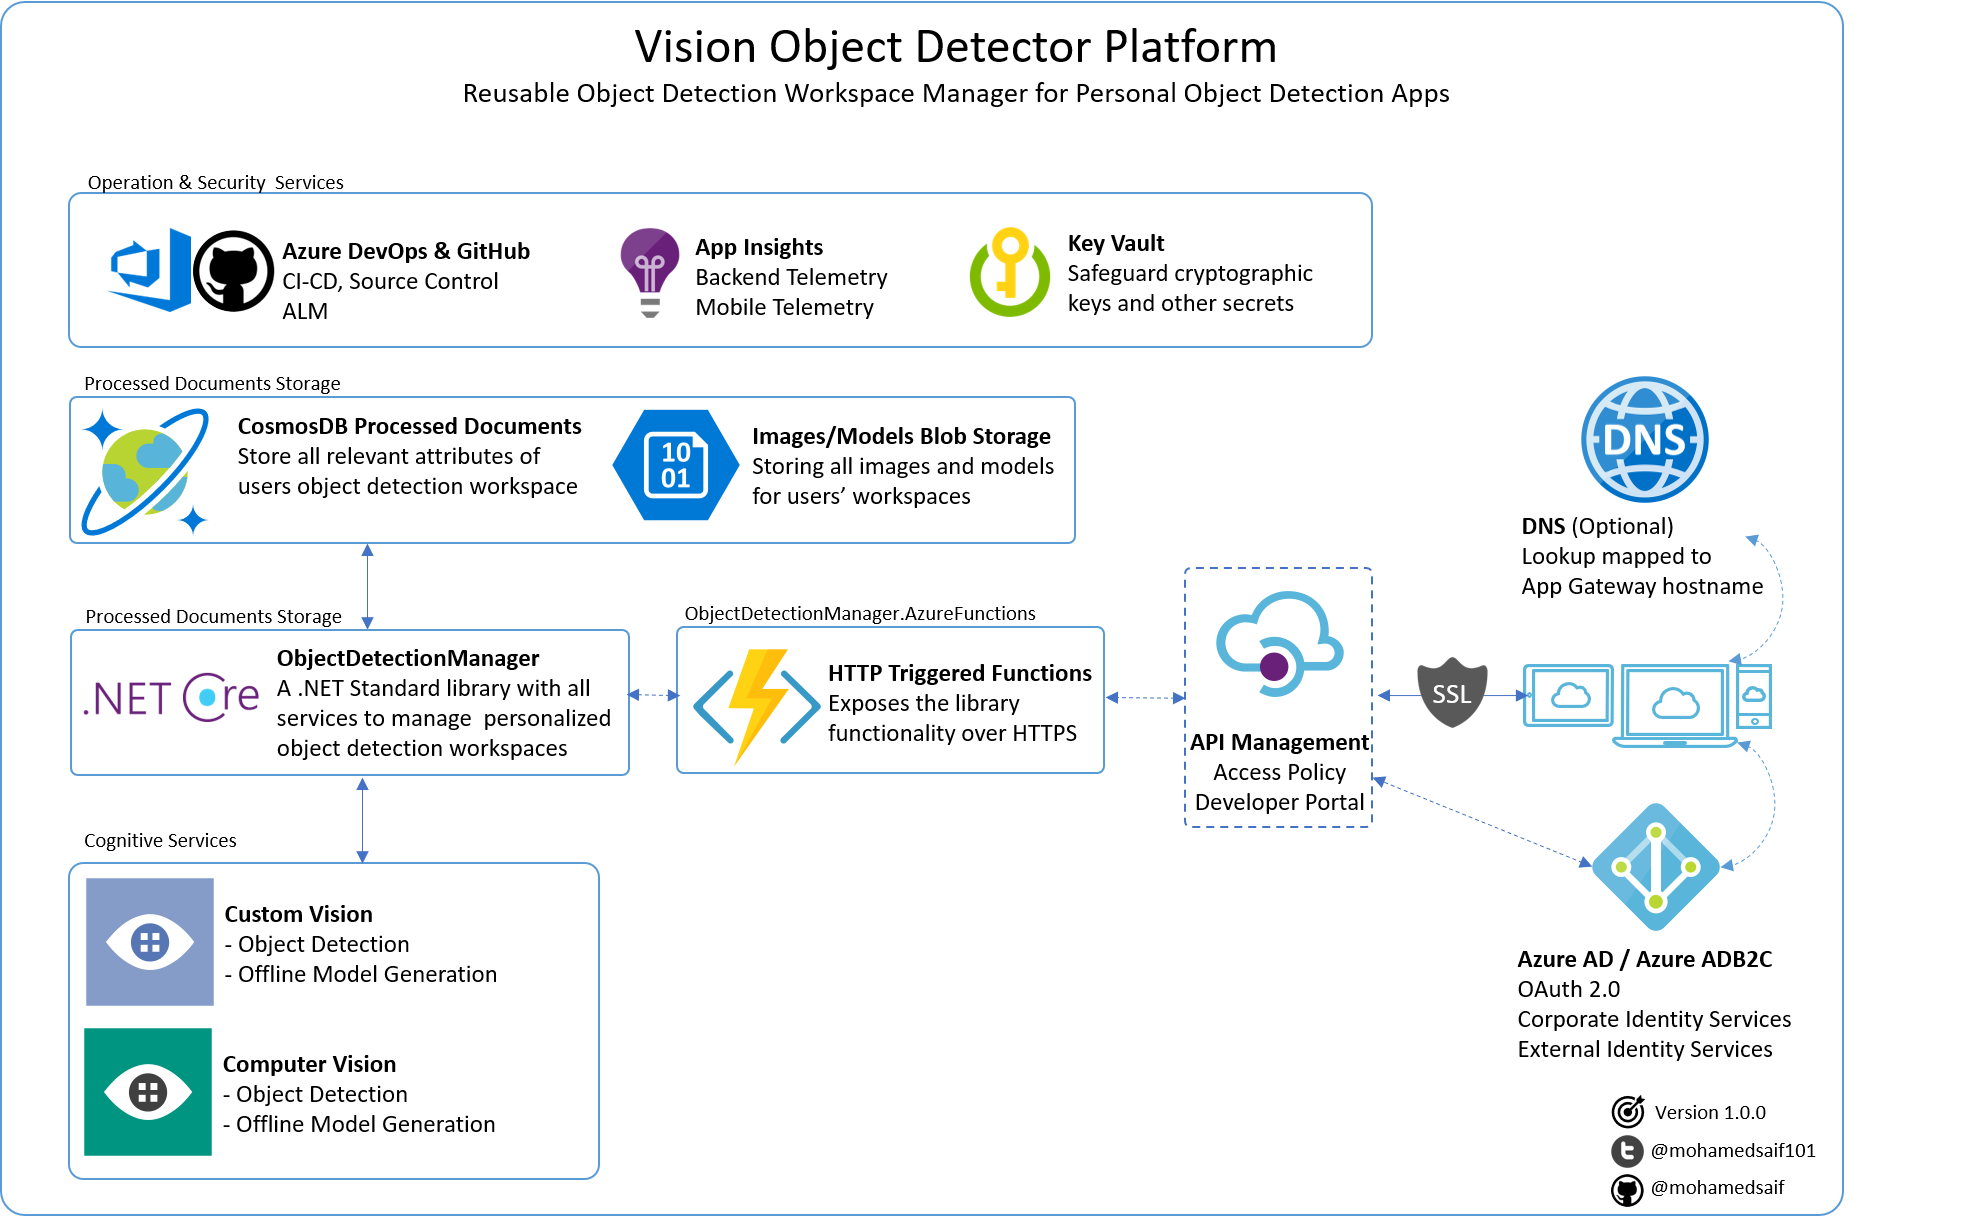
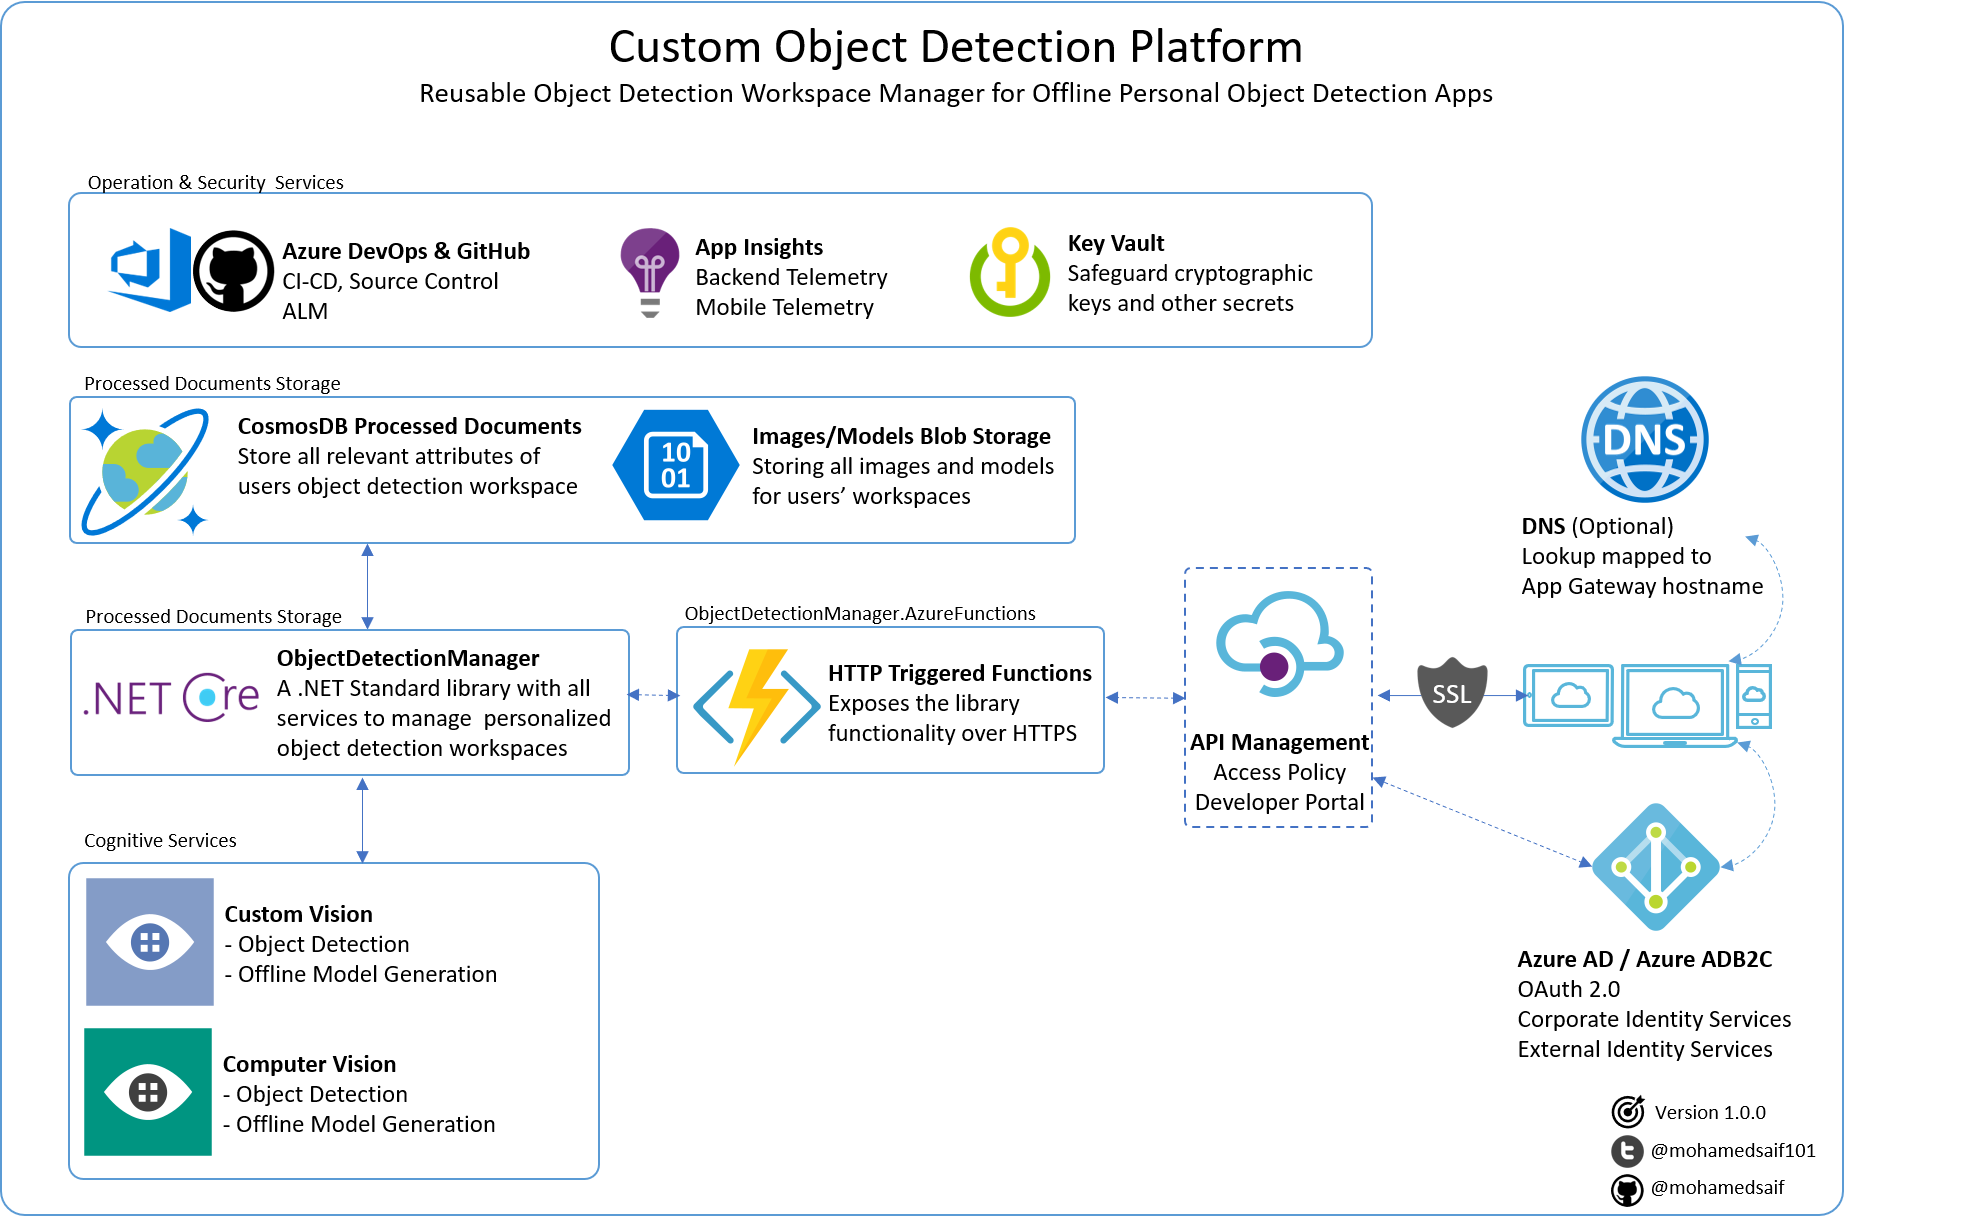
Updated Readme

Changed region(s): [[0.2161, 0.0312, 0.7409, 0.0938]]

diff --git a/README.md b/README.md
@@ -1,4 +1,4 @@
-# Vision Object Detector Platform
+# Custom Object Detection Platform
 
 I worked in a project where we needed to create personal object detection platform that supports exporting custom trained models to run in an offline mode on mobile devices (iOS (CoreML), Android (TensorFlow) and Windows (ONNX)).
 
